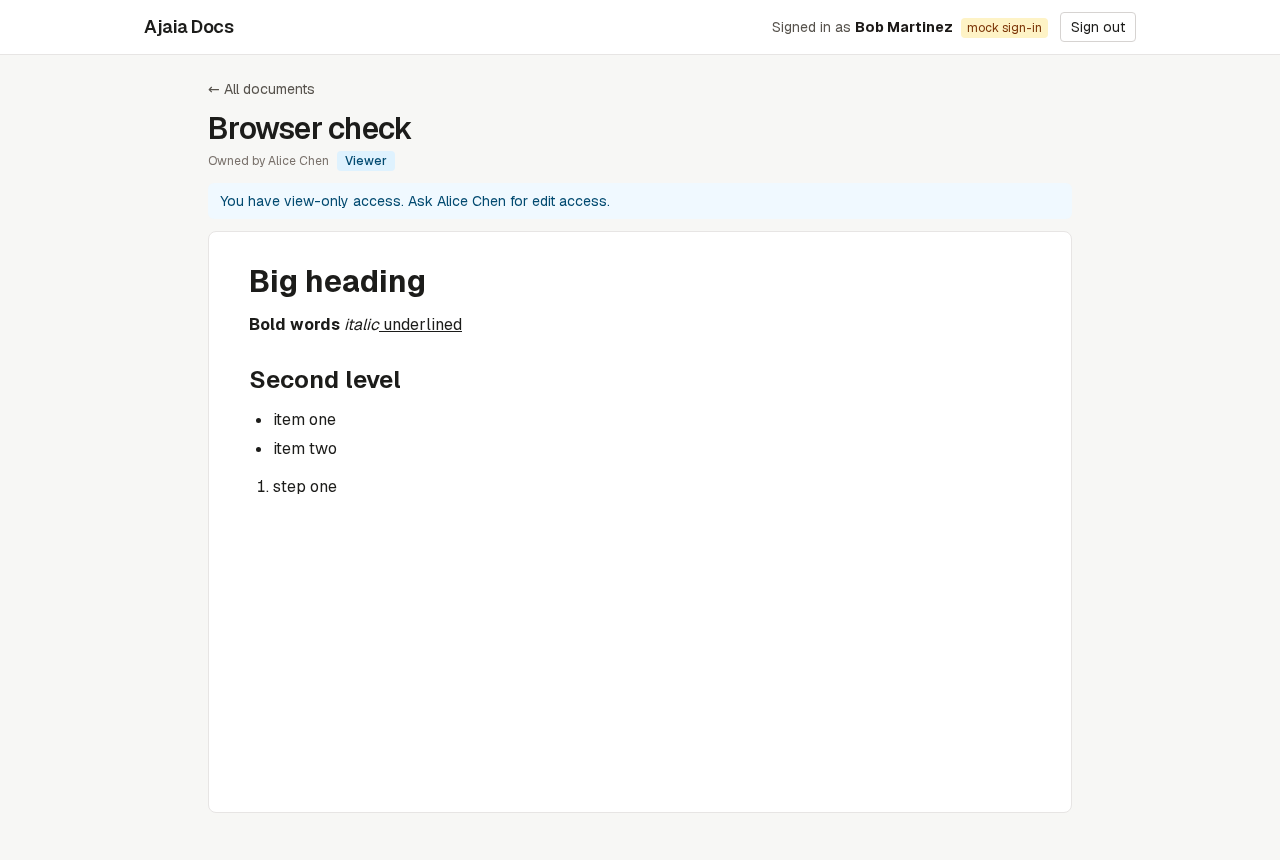
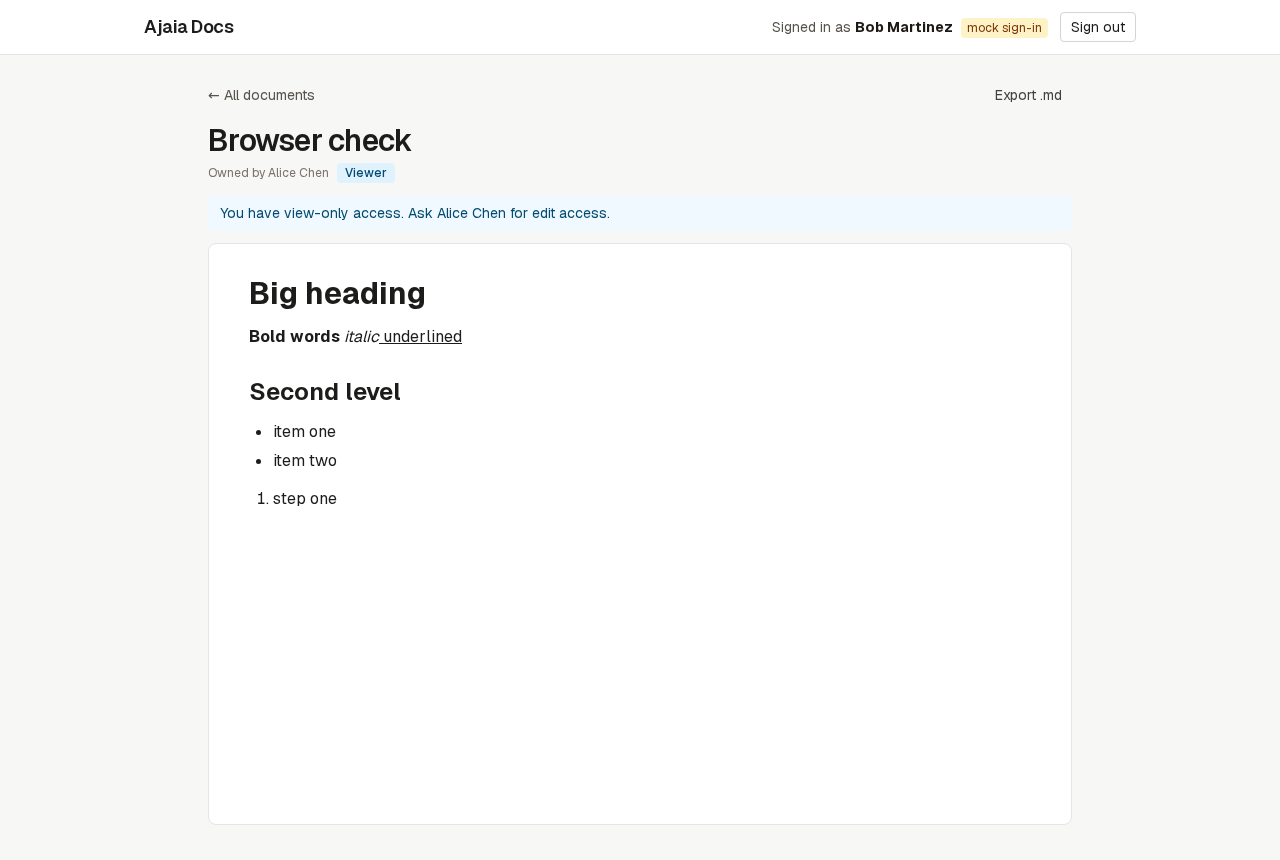
Fix three autosave/upload edge cases found in review; add architecture note
- Large docs: keepalive bodies over 64 KiB are refused by browsers, so the
  flush on leaving the page dropped the last edits. Use keepalive only
  under 60 KB; a normal fetch survives in-app navigation. Browser check
  reproduces it: fails before this change, passes after.
- Status said Saved while newer typing was still queued (timer armed
  during an in-flight save). Stay dirty if the timer is pending.
- Upload and New document buttons stuck on busy if fetch threw.

Found by a blind review agent; each verified against the code first.

Changed region(s): [[0.1562, 0.0907, 0.4688, 0.2721], [0.1875, 0.3023, 0.375, 0.6047], [0.7812, 0.0907, 0.8125, 0.1209]]

diff --git a/components/DocEditor.tsx b/components/DocEditor.tsx
@@ -84,11 +84,14 @@ export function DocEditor({ doc, role, initialShares, shareCandidates }: Props) 
       again.current = false;
       setStatus("saving");
       try {
+        const payload = JSON.stringify({ content: editor.getJSON(), version: versionRef.current });
         const res = await fetch(`/api/documents/${doc.id}`, {
           method: "PATCH",
           headers: { "content-type": "application/json" },
-          body: JSON.stringify({ content: editor.getJSON(), version: versionRef.current }),
-          keepalive: opts.keepalive,
+          body: payload,
+          // Browsers refuse keepalive bodies over 64 KiB; a normal fetch still
+          // completes after in-app navigation, which is when this flush runs.
+          keepalive: opts.keepalive && payload.length < 60_000,
         });
         if (res.status === 409) {
           stopped.current = true;
@@ -104,7 +107,8 @@ export function DocEditor({ doc, role, initialShares, shareCandidates }: Props) 
         }
         versionRef.current = body.version;
         setErrorDetail(null);
-        setStatus(again.current ? "dirty" : "saved");
+        // Still dirty if more typing arrived while this save was in flight.
+        setStatus(again.current || timer.current ? "dirty" : "saved");
       } catch {
         setErrorDetail("Check your connection.");
         setStatus("error");

diff --git a/components/NewDocButton.tsx b/components/NewDocButton.tsx
@@ -16,18 +16,19 @@ export function NewDocButton() {
         onClick={async () => {
           setBusy(true);
           setError(null);
-          const res = await fetch("/api/documents", {
-            method: "POST",
-            headers: { "content-type": "application/json" },
-            body: "{}",
-          });
-          if (!res.ok) {
+          try {
+            const res = await fetch("/api/documents", {
+              method: "POST",
+              headers: { "content-type": "application/json" },
+              body: "{}",
+            });
+            if (!res.ok) throw new Error(String(res.status));
+            const { id } = await res.json();
+            router.push(`/docs/${id}`);
+          } catch {
             setBusy(false);
             setError("Couldn't create a document. Try again.");
-            return;
           }
-          const { id } = await res.json();
-          router.push(`/docs/${id}`);
         }}
       >
         {busy ? "Creating…" : "New document"}

diff --git a/components/UploadButton.tsx b/components/UploadButton.tsx
@@ -20,14 +20,19 @@ export function UploadButton() {
     setBusy(true);
     const form = new FormData();
     form.append("file", file);
-    const res = await fetch("/api/import", { method: "POST", body: form });
-    const body = await res.json().catch(() => ({}));
-    if (!res.ok) {
+    try {
+      const res = await fetch("/api/import", { method: "POST", body: form });
+      const body = await res.json().catch(() => ({}));
+      if (!res.ok) {
+        setBusy(false);
+        setError(body.error ?? "Upload failed. Try again.");
+        return;
+      }
+      router.push(`/docs/${body.id}`);
+    } catch {
       setBusy(false);
-      setError(body.error ?? "Upload failed. Try again.");
-      return;
+      setError("Couldn't reach the server. Check your connection and try again.");
     }
-    router.push(`/docs/${body.id}`);
   }
 
   return (

diff --git a/ARCHITECTURE.md b/ARCHITECTURE.md
@@ -1,0 +1,133 @@
+# Architecture
+
+A small editor, built in one 4-hour sitting. This note covers what I prioritized and why, how the data and access
+model work, how two people are kept from overwriting each other, and what I left out on purpose.
+
+## What I prioritized, and why
+
+The brief asks for a lot of surface (editing, upload, sharing, persistence, deploy, tests, docs, video) in four hours.
+I ranked by what a reviewer would hit first and what would hurt most if it were wrong:
+
+1. **A live URL early.** Deployed to production with the database wired up before any feature work, so every later
+   step was checked where the reviewer will check it, not just on my machine.
+2. **Editing that doesn't lose work.** Autosave with a visible status, and a server-side version check so a stale tab
+   can't silently overwrite a newer save. Losing someone's text is the one failure an editor can't recover from.
+3. **Access rules that live in one place.** Sharing is the feature most likely to leak data. One function decides
+   every role, and every route and page calls it.
+4. **Upload that keeps structure.** Headings, lists and bold survive, because a flattened import is barely useful.
+5. **Tests where bugs would be silent.** Access rules, the stale-save refusal and import fidelity, run against the
+   real SQL schema.
+
+Everything else (real-time co-editing, comments, history) was cut so the above could be finished and verified.
+
+## Shape of the system
+
+```
+Browser                                  Vercel (Next.js 16, App Router)               Neon Postgres
+───────                                  ───────────────────────────────               ─────────────
+Tiptap editor ── PATCH /api/documents/:id ─► route handler ─► lib/access.ts getRole ─► documents
+  (autosave, version)                           │                                      document_shares
+Share dialog ─── /api/documents/:id/shares ─►   ├─► zod validation (lib/validation.ts)  users
+Upload button ── POST /api/import ──────────►   └─► lib/db/repo.ts (plain SQL) ───────►
+Server pages (home, doc) render with the same access check, so a stranger never gets the HTML.
+```
+
+- **Next.js App Router + TypeScript**, one deployable: pages and the JSON API live together. Server components render
+  the home list and the document page; the editor itself is a client component.
+- **Tiptap 3 (ProseMirror)**: one schema in `lib/editor/extensions.ts` is used by the browser editor *and* by the
+  server-side import, so what the importer produces is exactly what the editor can display.
+- **Neon Postgres** over HTTP (`@neondatabase/serverless`): no connection pool to manage on serverless functions.
+- **Data layer takes a query function.** `lib/db/repo.ts` and `lib/access.ts` accept `query(text, params)`.
+  Production passes Neon; tests pass PGlite (Postgres compiled to WebAssembly) running the same `db/schema.sql`, so
+  tests exercise real SQL with no Docker and no network.
+
+## Data model
+
+```sql
+users(id text pk, name, email unique)
+documents(id uuid pk, owner_id → users, title 1..200 chars, content jsonb, version int, created_at, updated_at)
+document_shares(document_id → documents, user_id → users, role 'viewer'|'editor', pk(document_id, user_id))
+```
+
+- **Content is stored as the editor's JSON**, not HTML. It round-trips exactly, it is what the editor loads natively,
+  and it never needs to be injected as raw HTML anywhere. Size is capped at 512 KB per save.
+- **One owner per document**, shares are rows. Ownership is a column rather than a share role, so it can't be revoked
+  or duplicated by accident.
+- Deleting a document or user cascades to its shares.
+
+## Access model
+
+`lib/access.ts` `getRole(user, doc)` returns `owner | editor | viewer | none` with one SQL query.
+
+| Action | Owner | Editor | Viewer | No access |
+| --- | --- | --- | --- | --- |
+| Open / read | yes | yes | yes (read-only editor) | 404 |
+| Edit content, rename | yes | yes | 403 | 404 |
+| Share, change role, revoke | yes | 403 | 403 | 404 |
+| Delete | yes | 403 | 403 | 404 |
+
+- **No access is a 404, not a 403**, so a document's existence is never confirmed to someone who can't see it. A
+  malformed id is treated the same way.
+- The **page** applies the same check before rendering, so the HTML for a private doc is never sent to a stranger.
+- **Sign-in is mocked**: a "Continue as" picker over three seeded users. The session cookie is `httpOnly`,
+  `SameSite=Lax`, `Secure` in production, and its value is `userId.HMAC-SHA256(userId, SESSION_SECRET)`, compared in
+  constant time. Editing the user id by hand breaks the signature (verified: a forged cookie gets 401).
+
+## Conflict handling
+
+Real-time co-editing was out of scope, but two people sharing an editable doc still must not silently overwrite each
+other. I used **optimistic concurrency**:
+
+1. The page loads the document with its `version`.
+2. Each autosave sends `{ content, version }` (the version it started from).
+3. The server runs one statement:
+   `UPDATE documents SET content=$2, version=version+1 WHERE id=$1 AND version=$3 RETURNING version`.
+   Being a single statement, two concurrent saves can't both win.
+4. No row updated and the doc exists → **409**. The editor stops autosaving, becomes read-only, and says
+   "This document was changed by someone else. Reload to see the latest." with a Reload button.
+
+Autosave fires about 1 s after typing stops. If a save is in flight when more typing happens, one more save is
+queued for when it returns (with the new version), so the last keystrokes are never dropped and saves never race each
+other from the same tab. Leaving the page with a pending save flushes it with `keepalive`, and the browser warns if a
+save hasn't landed.
+
+Rename is last-write-wins and does not bump the content version, so renaming in one tab doesn't knock an open editor
+in another tab into a conflict.
+
+## Upload and import
+
+`.txt`, `.md` and `.docx`, 1 MB max, each becomes a new document owned by the uploader.
+
+- `.md` → `marked` → HTML; `.docx` → `mammoth` → HTML; `.txt` → paragraphs (escaped).
+- HTML → Tiptap JSON on the server with the shared schema. **The schema is the sanitizer**: any tag it doesn't know
+  (script, style, iframe, img, tables, event-handler attributes) is dropped. Raw HTML inside Markdown is discarded
+  before that, as a second line.
+- **Zip-bomb guards for .docx**: the 1 MB cap only bounds the compressed size, so the server first checks the sizes
+  declared in the zip directory, then inflates each entry as a stream counting real bytes and stops at 20 MB. The
+  second check exists because headers can lie (a test forges them to prove it).
+
+## Validation and errors
+
+zod on every request body: title 1 to 200 characters, content must be a `doc` node under 512 KB, role must be
+`viewer` or `editor`, version a positive integer. Every user-facing error has plain wording (empty title, file too
+large, unsupported type, couldn't save, conflict).
+
+## Testing
+
+`npm test` (Vitest, 18 tests, about 2 s): access rules through the data layer on PGlite (owner, editor, viewer,
+stranger, upgrade, revoke, malformed id), stale-version refusal, Markdown/.docx/.txt import fidelity and HTML
+stripping, both zip-bomb guards, Markdown export.
+
+Beyond unit tests, two scripts check the deployed app: `scripts/smoke.sh` (every API route as each user) and
+`scripts/browser-check.mjs` (Playwright driving the real editor, 20 checks, including the two-tab conflict).
+
+## Deliberate cuts
+
+| Cut | Why | What it would take |
+| --- | --- | --- |
+| Real-time co-editing | Needs a sync layer (Yjs + a websocket service); the version check covers the safety need. | Yjs + Hocuspocus or Liveblocks, about 1 to 2 days. |
+| Real authentication | Not what's being evaluated; mocked sign-in shows the access model just as well. | Auth.js or Clerk; the `users` table and cookie check stay. |
+| Sharing by email to outside people | Needs invitations and real accounts. | Invite table + email, after real auth. |
+| Comments, version history | Each is its own feature with its own UI. | History: a `document_versions` table written on save. |
+| Images in documents, PDF upload | Needs file storage and a PDF text extractor; adds risk for little gain here. | Blob storage + Tiptap Image; `pdfjs` for text. |
+| Docker | Docker-first is my default, but this deploys to Vercel from source and the clock favored host Node. | A two-service compose file (app + Postgres). |

diff --git a/README.md b/README.md
@@ -29,6 +29,7 @@ Sample files to upload are in `samples/` (`sample.md`, `sample.docx`, `sample.tx
   revokes. Home has "My documents" and "Shared with me" with owner names and role badges.
 - **Access on the server:** every API route and page asks one function (`lib/access.ts`) for the caller's role.
   Someone without access gets 404, the same as a missing document.
+- **Export:** download any document you can read as Markdown (`.md`).
 - **Conflict safety:** each save sends the version it started from. If someone else saved first, the server refuses
   with 409 and the editor says "This document was changed by someone else. Reload to see the latest."
 
@@ -62,10 +63,12 @@ With a linked Vercel project, `vercel env pull .env.local` fills the env file in
 
 | Command | Does |
 | --- | --- |
-| `npm test` | Vitest: access rules, stale-save rejection and import, on an in-memory Postgres (PGlite) running the real `db/schema.sql`. No Docker, no network. |
+| `npm test` | Vitest (18 tests): access rules, stale-save rejection, import, zip-bomb guards, export, on an in-memory Postgres (PGlite) running the real `db/schema.sql`. No Docker, no network. |
 | `npm run build` | Production build (TypeScript checked). |
 | `npm run lint` | ESLint. |
 | `npm run db:seed` | Schema + seed against `DATABASE_URL`. |
+| `npm run check:api -- <url>` | Calls every API route as Alice, Bob and Carol and prints status codes (401, 403, 404, 409, uploads). |
+| `npm run check:browser -- <url>` | Playwright drives the real editor: create, format, autosave, reload, export, share, viewer, 404, two-tab conflict. Saves `docs/screenshots/`. |
 
 ## Docs
 
